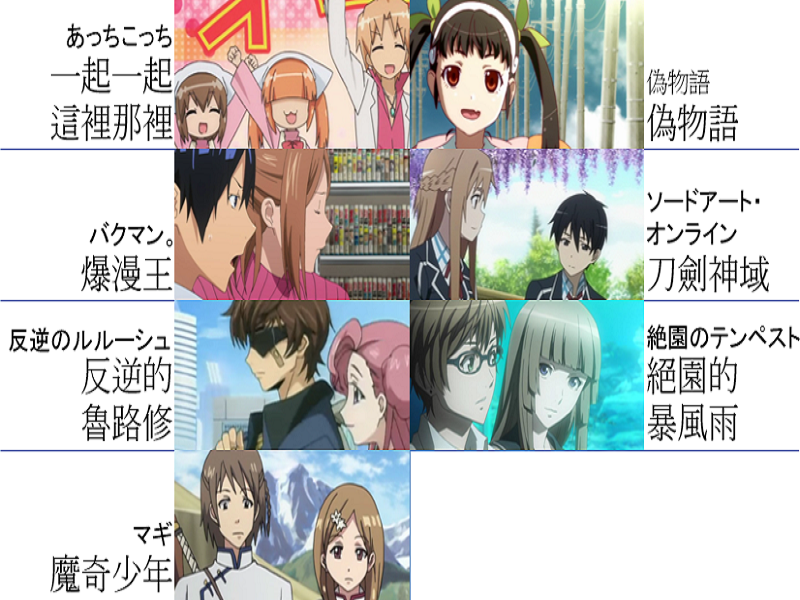
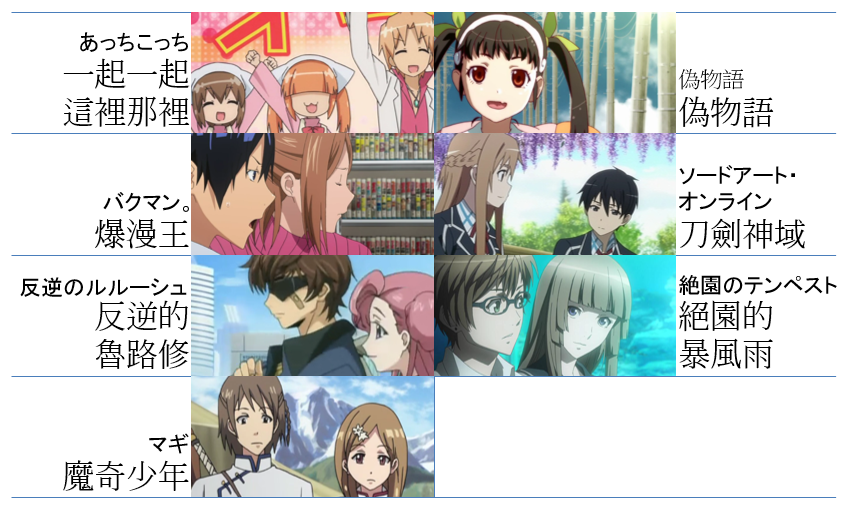
image vertical-align, tag, font color

diff --git a/index.html b/index.html
@@ -40,6 +40,7 @@
               <li><a href="#education">Education</a></li>
               <li><a href="#publication">Publications</a></li>
               <li><a href="#project">Projects</a></li>
+              <li><a href="#activity">Activity</a></li>
             </ul>
           </div>
 
@@ -63,6 +64,7 @@
               <div><a href="http://graphics.csie.ntu.edu.tw/" target="blank">Graphics Group, Communication and Multimedia Lab</a></div>
               <div><a href="http://www.inm.ntu.edu.tw/main.php" target="blank">Graduate Institute of Networking and Multimedia</a></div>
               <div><a href="http://www.ntu.edu.tw/" target="blank">National Taiwan University</a></div>
+              <div class='email'>jasonlai_at_cmlab.csie.ntu.edu.tw</div>
             </div>
             <div class="social-links">
               <a href="https://www.linkedin.com/in/weishenglai" target="_blank"><i class="fa fa-linkedin-square fa-3x"></i></a>
@@ -87,7 +89,7 @@
 
         </div>
       </div>
-    </div>
+    </div> <!-- end of top jumbotron -->
 
     <div class="jumbotron">
       <div class="container section">
@@ -118,10 +120,9 @@
           </div>
         </div>
 
-      </div>
-      <br>
-      
+      </div> <!-- end of Education -->
 
+      
       <div class="container section">
         <div class="clearfix anchor-parent">
           <h2>Publications</h2>
@@ -137,7 +138,7 @@
             <div class="paper">Blur Kernel Estimation Using Color-Line Model For Natural Image Deblurring</div>
             <div class="author"><b>Wei-Sheng Lai</b></div>
             <div class="conf">M.S. Thesis, National Taiwan University, 2014</div>
-            <div> <i class="fa fa-file-pdf-o"></i> <span class="label label-warning">PDF</span>(To appear)</div>
+            <div> <i class="fa fa-file-pdf-o"></i> PDF (To appear)</div>
           </div>
         </div>
 
@@ -164,18 +165,33 @@
           </div>
         </div>
 
-      
-      </div>
-      <br>
+      </div> <!-- end of Publication -->
 
 
       <div class="container section">
         <div class="clearfix anchor-parent">
-          <h2>Course Projects</h2>
+          <h2>Projects</h2>
           <hr>
           <span id="project" class="anchor"></span>
         </div>
         
+        <div class="row item">
+          <div class="col-md-2 item-img">
+            <img src="images/ntusbleague.jpg" class="img-responsive">
+          </div>
+          <div class="col-md-10 item-info chess">
+            <div class="paper">NTUSBLeague Record Website</div>
+            <div class="date">Jul. 2014 - Present</div>
+            <div class="tag">
+              <span class="label label-success">Free Project</span>
+              <span class="label label-primary">Python</span>
+              <span class="label label-danger">Django</span>
+            </div>
+            <div><i class="fa fa-users fa-fw"></i>江柏宣</div>
+            <div><i class="fa fa-globe fa-fw"></i>website (To appear)</div>
+          </div>
+        </div>
+
         <div class="row item">
           <div class="col-md-2 item-img">
             <img src="images/ml.png" class="img-responsive">
@@ -183,25 +199,33 @@
           <div class="col-md-10 item-info">
             <div class="paper">Broken Chinese Zodiac Character Recognition</div>
             <div class="date">Dec. 2013 - Jan. 2014</div>
-            <ul class="fa-ul">
-              <li><i class="fa-li fa fa-users"></i>Chia-Jung Lin</li>
-              <li><i class="fa-li fa fa-book"></i>Machine Learning</li>
-              <li><i class="fa-li fa fa-file-pdf-o"></i><span class="label label-warning">PDF</span></li>
-            </ul>
+            <div class="tag">
+              <span class="label label-success">Course Project</span>
+              <span class="label label-primary">Python</span>
+              <span class="label label-danger">scikit-learn</span>
+              <span class="label label-danger">libSVM</span>
+            </div>
+            <div><i class="fa fa-users fa-fw"></i>Chia-Jung Lin</div>
+            <div><i class="fa fa-book fa-fw"></i>Machine Learning</div>
+            <div><i class="fa fa-file-pdf-o fa-fw"></i>PDF</div>
           </div>
         </div>
         
         <div class="row item">
           <div class="col-md-2 item-img">
-            <img src="images/vfx-matting.png" class="img-responsive">
+            <img src="images/vfx.png" class="img-responsive">
           </div>
           <div class="col-md-10 item-info chess">
             <div class="paper">Natural Image Matting</div>
             <div class="date">Jun. 2013 - Jul. 2013</div>
-            <ul class="fa-ul">
-              <li><i class="fa-li fa fa-book"></i>Digital Visual Effects</li>
-              <li><i class="fa-li fa fa-globe"></i><span class="label label-primary">website</span></li>
-            </ul>
+            <div class="tag">
+              <span class="label label-success">Course Project</span>
+              <span class="label label-primary">MATLAB</span>
+            </div>
+            <div><i class="fa fa-book fa-fw"></i>Digital Visual Effects</div>
+            <div><i class="fa fa-globe fa-fw"></i>website &nbsp;&nbsp;&nbsp;
+                 <i class="fa fa-file-code-o fa-fw"></i>code
+            </div>
           </div>
         </div>
 
@@ -212,11 +236,14 @@
           <div class="col-md-10 item-info">
             <div class="paper">Stereo Matching Performance Optimization in OpenCL</div>
             <div class="date">Jun. 2013 - Jul. 2013</div>
-            <ul class="fa-ul">
-              <li><i class="fa-li fa fa-users"></i>Wei-Chih Tu, Eric Chin</li>
-              <li><i class="fa-li fa fa-book"></i>3D Multimedia System Design</li>
-              <li><i class="fa-li fa fa-file-pdf-o"></i><span class="label label-success">poster</span></li>
-            </ul>
+            <div class="tag">
+              <span class="label label-success">Course Project</span>
+              <span class="label label-primary">C++</span>
+              <span class="label label-danger">OpenCL</span>
+            </div>
+            <div><i class="fa fa-users fa-fw"></i>Wei-Chih Tu, Eric Chin</div>
+            <div><i class="fa fa-book fa-fw"></i>3D Multimedia System Design</div>
+            <div><i class="fa fa-file-pdf-o fa-fw"></i>poster</div>
           </div>
         </div>
 
@@ -227,11 +254,14 @@
           <div class="col-md-10 item-info chess">
             <div class="paper">Spectral Rendering</div>
             <div class="date">Dec. 2012 - Jan. 2013</div>
-            <ul class="fa-ul">
-              <li><i class="fa-li fa fa-users"></i>Zen-Pei Tseng</li>
-              <li><i class="fa-li fa fa-book"></i>Digital Image Synthesis</li>
-              <li><i class="fa-li fa fa-globe"></i><span class="label label-primary">website</span></li>
-            </ul>
+            <div class="tag">
+              <span class="label label-success">Course Project</span>
+              <span class="label label-primary">C++</span>
+              <span class="label label-danger">PBRT</span>
+            </div>
+            <div><i class="fa fa-users fa-fw"></i>Zen-Pei Tseng</div>
+            <div><i class="fa fa-book fa-fw"></i>Digital Image Synthesis</div>
+            <div><i class="fa fa-globe fa-fw"></i>website</div>
           </div>
         </div>
 
@@ -242,19 +272,34 @@
           <div class="col-md-10 item-info">
             <div class="paper">Painting Style Classification</div>
             <div class="date">Dec. 2012 - Jan. 2013</div>
-            <ul class="fa-ul">
-              <li><i class="fa-li fa fa-users"></i>Kun-Wei Han, Pao-Ya Chien</li>
-              <li><i class="fa-li fa fa-book"></i>Multimedia Analysis and Indexing</li>
-              <li><i class="fa-li fa fa-file-powerpoint-o"></i><span class="label label-danger">slide</span></li>
-            </ul>
+            <div class="tag">
+              <span class="label label-success">Course Project</span>
+              <span class="label label-primary">MATLAB</span>
+              <span class="label label-danger">libSVM</span>
+            </div>
+            
+            <div><i class="fa fa-users fa-fw"></i>Kun-Wei Han, Pao-Ya Chien</div>
+            <div><i class="fa fa-book fa-fw"></i>Multimedia Analysis and Indexing</div>
+            <div><i class="fa fa-file-powerpoint-o fa-fw"></i>slide</div>
           </div>
         </div>
 
+      </div> <!-- end of Projects -->
+
+      
+      <div class="container section">
+        <div class="clearfix anchor-parent">
+          <h2>Activity</h2>
+          <hr>
+          <span id="activity" class="anchor"></span>
+        </div>
+
+      </div> <!-- end of Activity -->
 
 
-      </div>
+
     
-    </div>
+    </div> <!-- end of body jumbotron -->
 
     <div class="footer">
       <div class="container">
@@ -267,12 +312,9 @@
       </div>
     </div>
 
-
-
-
-  <script type="text/javascript" src="js/jquery-1.11.0.js"></script>
-  <script type="text/javascript" src="js/bootstrap.min.js"></script>
-  <script type="text/javascript" src="js/main.js"></script>
+    <script type="text/javascript" src="js/jquery-1.11.0.js"></script>
+    <script type="text/javascript" src="js/bootstrap.min.js"></script>
+    <script type="text/javascript" src="js/main.js"></script>
 
   </body>
 </html>

diff --git a/css/main.css b/css/main.css
@@ -4,35 +4,35 @@ body {
 }
 /* unvisited link */
 a:link {
-    color: #FFFFFF !important;
+    color: #EEEEEE !important;
 }
 
 /* visited link */
 a:visited {
-    color: #FFFFFF !important;
+    color: #EEEEEE !important;
 }
 
 /* mouse over link */
 a:hover {
-    color: yellow !important;
+    color: #FFFFFF !important;
     text-decoration: none !important;
 }
 
 /* selected link */
 a:active {
-    color: #FFFFFF !important;
+    color: #EEEEEE !important;
 }
 
 /*************** customized navbar ***************/
 
 .navbar-nav{
-  font-size: 20px;
+  font-size: 18px;
 }
 
 .navbar-custom {
-  background-color:#45619D;
-    color:#ffffff;
-    border-radius:0;
+  background-color:#171717;
+  color:#EEEEEE;
+  border-radius:0;
 }
   
 .navbar-custom .navbar-nav > li > a {
@@ -47,7 +47,7 @@ a:active {
       
 .navbar-custom .navbar-nav > li > a:hover, .nav > li > a:focus {
     text-decoration: none;
-    background-color: #39538c;
+    background-color: #3F3F3F;
 }
       
 .navbar-custom .navbar-brand {
@@ -98,6 +98,11 @@ a:active {
   font-weight: bold;
 }
 
+.email{
+  margin: 10px auto 10px;
+  font-family: monospace;
+}
+
 .no-bullet-list{
   list-style: none;
 }
@@ -106,7 +111,7 @@ a:active {
   background:transparent;
   color: #FFFFFF;
   padding-top: 50px;
-  padding-bottom: 100px;
+  padding-bottom: 50px;
 }
 
 .profile-img{
@@ -126,7 +131,7 @@ a:active {
 }
 
 .profile-description{
-  margin: 40px 40px 40px;
+  margin: 40px 40px 0px;
 }
 
 .info-list{
@@ -149,6 +154,7 @@ a:active {
   padding-right: 40px !important;
   box-shadow: 4px 4px 3px -2px rgba(20%,20%,40%,0.5);
   border-radius: 20px;
+  margin: 20px auto 20px;
 }
 
 .anchor-parent{
@@ -204,8 +210,8 @@ a:active {
 }
 
 .item-img{
-  vertical-align: center;
   display: table-cell !important;
+  vertical-align: middle !important;
   float: none !important;
 }
 
@@ -231,4 +237,16 @@ a:active {
 .last-update{
   font-size: 16px;
   color: #208040;
+}
+
+.tag{
+  padding-bottom: 5px;
+}
+
+.fa-fw{
+  padding-right: 20px !important;
+}
+
+.white-space{
+  margin-right: 50px;
 }
